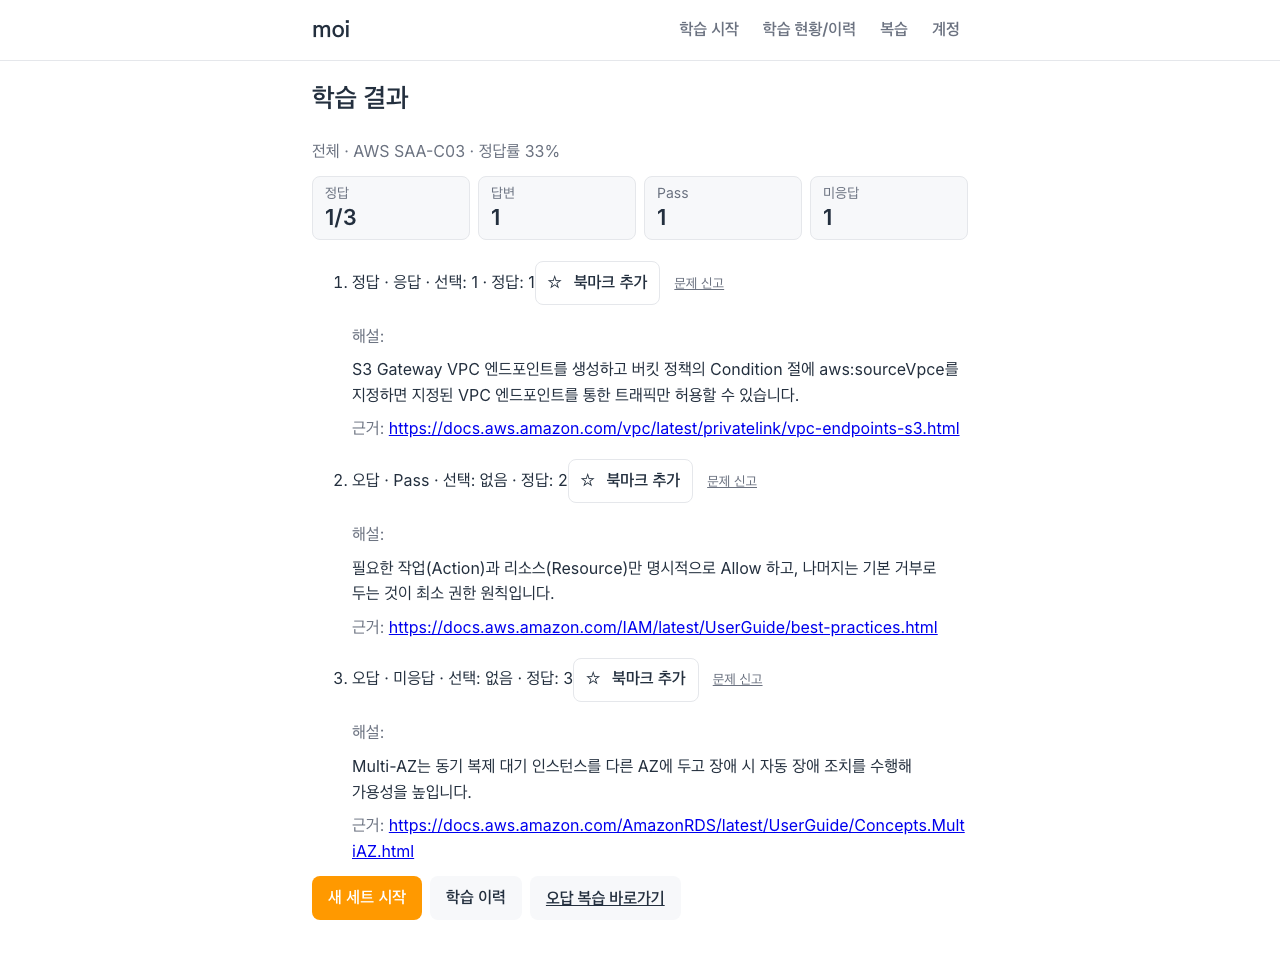
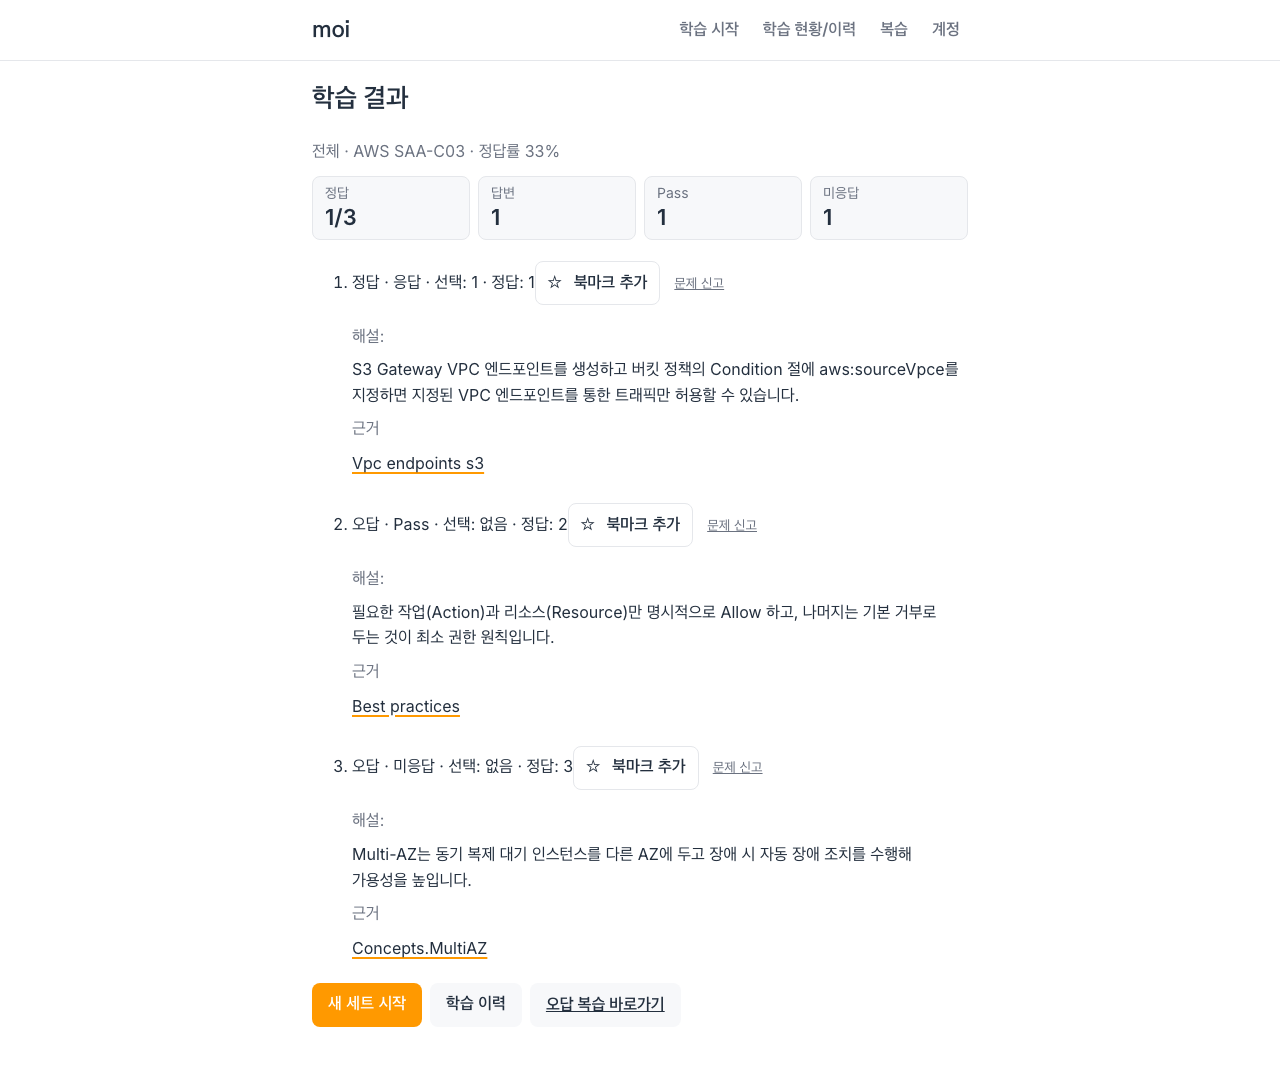
fix: 근거 링크를 전체 URL 대신 문서명으로 표시 (#188) (#193)
* fix: #188 근거 링크를 전체 URL 대신 문서명으로 표시

- sourceLabel(url): path 마지막 세그먼트 디코드·공백화·확장자 제거·첫 글자 대문자, root는 hostname, 파싱 실패는 원문\n- SourceLinks: 문서명 링크(ul/li/a), href·title에만 원문 URL, 44px 터치 타깃·overflow-wrap anywhere\n- ResultView·ReviewFeedback raw URL 렌더를 SourceLinks로 교체(근거/공식 근거 제목 유지)\n- 결과/복습 UI·BDD·sourceLabel 단위 테스트 갱신, capture-screens 복습 피드백 증거 추가

* docs: #188 결과·복습 근거 링크 화면 증거 갱신

- capture-screens study-result·review 320/375/768/1024/1280 overflow 0, raw value 0\n- review 화면은 복습 시작→답안 제출→공식 근거까지 캡처

diff --git a/tests/ui/source-label.test.ts b/tests/ui/source-label.test.ts
@@ -1,0 +1,37 @@
+import { describe, expect, it } from 'vitest';
+import { sourceLabel } from '../../src/ui/source-label';
+
+describe('sourceLabel', () => {
+  it('AWS 문서 URL의 마지막 path를 문서명으로 만든다 (#188)', () => {
+    expect(
+      sourceLabel('https://docs.aws.amazon.com/global-accelerator/latest/dg/what-is-global-accelerator.html'),
+    ).toBe('What is global accelerator');
+  });
+
+  it('루트 URL은 hostname으로 대체한다', () => {
+    expect(sourceLabel('https://docs.aws.amazon.com/')).toBe('docs.aws.amazon.com');
+    expect(sourceLabel('https://docs.aws.amazon.com')).toBe('docs.aws.amazon.com');
+  });
+
+  it('query·hash는 라벨에 넣지 않는다', () => {
+    expect(sourceLabel('https://docs.aws.amazon.com/ec2/index.html?ref=nav#concepts')).toBe('Index');
+  });
+
+  it('인코딩된 path를 디코드하고 -/_를 공백으로 바꾼다', () => {
+    expect(
+      sourceLabel('https://docs.aws.amazon.com/%ED%95%9C%EA%B8%80-%EB%AC%B8%EC%84%9C.html'),
+    ).toBe('한글 문서');
+    expect(sourceLabel('https://docs.aws.amazon.com/vpc/what_is_a_vpc.pdf')).toBe('What is a vpc');
+  });
+
+  it('확장자가 없거나 trailing slash여도 마지막 문서 세그먼트를 쓴다', () => {
+    expect(sourceLabel('https://docs.aws.amazon.com/s3/pricing')).toBe('Pricing');
+    expect(sourceLabel('https://docs.aws.amazon.com/vpc/')).toBe('Vpc');
+    expect(sourceLabel('https://docs.aws.amazon.com/ec2/index.htm')).toBe('Index');
+  });
+
+  it('파싱할 수 없는 URL은 원문을 그대로 돌려준다', () => {
+    expect(sourceLabel('not-a-url')).toBe('not-a-url');
+    expect(sourceLabel('')).toBe('');
+  });
+});

diff --git a/src/ui/study/ResultView.tsx b/src/ui/study/ResultView.tsx
@@ -2,6 +2,7 @@ import { copy } from '../copy';
 import type { ApiClient, StudyCorrections, StudySubmittedItem, StudySubmittedSet } from '../api/client';
 import { Button } from '../components/ui/button';
 import { BookmarkButton } from '../review/BookmarkButton';
+import { SourceLinks } from '../SourceLinks';
 import { Explanation } from './Explanation';
 import { ReportButton } from './ReportButton';
 import { scopeLabel, STUDY_EXAM_LABEL } from './types';
@@ -103,12 +104,10 @@ export function ResultView({ client, set, onRestart, onHistory, corrections }: P
                     <Explanation markdown={content.explanation || '—'} />
                   </div>
                   {content.sourceUrls && content.sourceUrls.length > 0 && (
-                    <p className="moi-note">
-                      {copy.study.sources}:{' '}
-                      {content.sourceUrls.map((u) => (
-                        <a key={u} href={u} target="_blank" rel="noreferrer">{u}</a>
-                      ))}
-                    </p>
+                    <div className="moi-study-sources">
+                      <span className="moi-study-sources-label">{copy.study.sources}</span>
+                      <SourceLinks urls={content.sourceUrls} />
+                    </div>
                   )}
                 </>
               )}

diff --git a/src/ui/review/ReviewFeedback.tsx b/src/ui/review/ReviewFeedback.tsx
@@ -4,6 +4,7 @@ import { Alert } from '../components/ui/alert';
 import { Button } from '../components/ui/button';
 import { Card, CardContent, CardHeader, CardTitle } from '../components/ui/card';
 import { copy } from '../copy';
+import { SourceLinks } from '../SourceLinks';
 import { Explanation } from '../study/Explanation';
 import { BookmarkButton } from './BookmarkButton';
 
@@ -111,20 +112,7 @@ export function ReviewFeedback({
           {graded.sourceUrls && graded.sourceUrls.length > 0 && (
             <div className="flex flex-col gap-1 border-t border-border pt-3">
               <h4 className="text-xs font-semibold text-muted-foreground">{copy.review.sources}</h4>
-              <ul className="flex flex-col gap-1">
-                {graded.sourceUrls.map((url) => (
-                  <li key={url}>
-                    <a
-                      href={url}
-                      target="_blank"
-                      rel="noreferrer"
-                      className="break-all text-xs text-primary underline hover:text-primary/80"
-                    >
-                      {url}
-                    </a>
-                  </li>
-                ))}
-              </ul>
+              <SourceLinks urls={graded.sourceUrls} />
             </div>
           )}
         </CardContent>

diff --git a/src/ui/source-links.css b/src/ui/source-links.css
@@ -1,0 +1,40 @@
+/* 근거 링크 — 문서명만 보이고 전체 URL은 href/title에만 둔다 (#188). 토큰 CSS 변수만 사용. */
+.moi-source-links {
+  display: flex;
+  flex-direction: column;
+  margin: 0;
+  padding: 0;
+  list-style: none;
+  min-width: 0;
+}
+
+.moi-source-links > li {
+  min-width: 0;
+}
+
+/* 링크 행 자체를 44px 터치 타깃으로 만들고, 긴 문서명은 어절 안에서도 끊는다. */
+.moi-source-links a {
+  display: inline-flex;
+  align-items: center;
+  min-height: var(--moi-touch-min);
+  padding: var(--moi-space-1) 0;
+  color: var(--moi-color-ink);
+  font-size: var(--moi-size-small);
+  line-height: var(--moi-lh-normal);
+  text-decoration: underline;
+  text-decoration-color: var(--moi-color-orange);
+  text-decoration-thickness: 2px;
+  text-underline-offset: 3px;
+  overflow-wrap: anywhere;
+  word-break: break-word;
+  border-radius: var(--moi-radius-sm);
+}
+
+.moi-source-links a:hover {
+  background: var(--moi-color-surface);
+}
+
+.moi-source-links a:focus-visible {
+  outline: 2px solid var(--moi-color-orange);
+  outline-offset: 2px;
+}

diff --git a/src/ui/source-label.ts b/src/ui/source-label.ts
@@ -1,0 +1,30 @@
+// 근거 URL → 문서명 라벨 (#188). 전체 URL은 href/title에만 두고 화면에는 사람이 읽는 이름을 노출한다.
+// 콘텐츠 JSON·DB는 바꾸지 않고 URL만으로 라벨을 파생한다.
+
+/** path 마지막 세그먼트를 디코드·공백화·확장자 제거 후 첫 글자만 대문자로 만든다. */
+export function sourceLabel(rawUrl: string): string {
+  let url: URL;
+  try {
+    url = new URL(rawUrl);
+  } catch {
+    return rawUrl;
+  }
+
+  const segment = url.pathname.split('/').filter(Boolean).at(-1);
+  if (!segment) return url.hostname || rawUrl;
+
+  let decoded: string;
+  try {
+    decoded = decodeURIComponent(segment);
+  } catch {
+    decoded = segment;
+  }
+
+  const words = decoded
+    .replace(/\.(?:html?|pdf)$/i, '')
+    .replace(/[-_]+/g, ' ')
+    .trim();
+  if (!words) return url.hostname || rawUrl;
+
+  return words.charAt(0).toUpperCase() + words.slice(1);
+}

diff --git a/e2e/steps/review.steps.ts b/e2e/steps/review.steps.ts
@@ -630,6 +630,11 @@ Then('즉시 채점 결과와 해설과 공식 근거가 보인다', async ({ pa
   await expect(page.getByText(copy.review.correctBadge, { exact: true })).toBeVisible();
   await expect(page.getByRole('heading', { name: copy.study.explanation })).toBeVisible();
   await expect(page.getByRole('heading', { name: copy.review.sources })).toBeVisible();
+  const source = page.locator('.moi-source-links a').first();
+  await expect(source).toBeVisible();
+  expect(await source.innerText()).not.toMatch(/^https?:\/\//);
+  await expect(source).toHaveAttribute('href', /^https:\/\/docs\.aws\.amazon\.com\//);
+  await expect(source).toHaveAttribute('title', /^https:\/\/docs\.aws\.amazon\.com\//);
 });
 
 Then('북마크 상태가 해제로 바뀐다', async ({ page }) => {

diff --git a/tests/ui/study.test.tsx b/tests/ui/study.test.tsx
@@ -270,7 +270,10 @@ describe('제출·결과·포기', () => {
     const item = screen.getByTestId('peritem-q-0');
     expect(within(item).getAllByText(/정답/).length).toBeGreaterThanOrEqual(1);
     expect(within(item).getByText(/문제 0 해설: 정답은 q-0-a이다/)).toBeInTheDocument();
-    expect(within(item).getByRole('link')).toHaveAttribute('href', 'https://docs.aws.amazon.com/q-0');
+    const link = within(item).getByRole('link', { name: 'Q 0' });
+    expect(link).toHaveAttribute('href', 'https://docs.aws.amazon.com/q-0');
+    expect(link).toHaveAttribute('title', 'https://docs.aws.amazon.com/q-0');
+    expect(link).not.toHaveTextContent(/https?:\/\//);
     expect(screen.queryByText(/해설·근거·북마크는 후속/)).not.toBeInTheDocument();
   });
 

diff --git a/tests/ui/review-phase2.test.tsx b/tests/ui/review-phase2.test.tsx
@@ -261,7 +261,10 @@ describe('복습 Phase 2 채점·해설·종료·북마크 UI', () => {
     });
 
     expect(await screen.findByText('Intelligent-Tiering이 가장 적합합니다.')).toBeInTheDocument();
-    expect(screen.getByRole('link', { name: /https:\/\/docs.aws.amazon.com\/s3\/pricing/ })).toBeInTheDocument();
+    const sourceLink = screen.getByRole('link', { name: 'Pricing' });
+    expect(sourceLink).toHaveAttribute('href', 'https://docs.aws.amazon.com/s3/pricing');
+    expect(sourceLink).toHaveAttribute('title', 'https://docs.aws.amazon.com/s3/pricing');
+    expect(sourceLink).not.toHaveTextContent(/https?:\/\//);
 
     // 다음 문항 정답은 아직 미노출
     expect(screen.queryByText('CIDR 중복 방지')).not.toBeInTheDocument();

diff --git a/e2e/steps/study.steps.ts b/e2e/steps/study.steps.ts
@@ -377,7 +377,10 @@ Then('학습 결과가 보인다', async ({ page }) => {
 
 Then('해설과 근거가 보인다', async ({ page }) => {
   await expect(page.getByText(/문제 0 해설: 정답은/)).toBeVisible();
-  await expect(page.getByRole('link', { name: /docs.aws.amazon.com/ }).first()).toBeVisible();
+  const source = page.getByRole('link', { name: 'Q 0' });
+  await expect(source).toBeVisible();
+  await expect(source).toHaveAttribute('href', 'https://docs.aws.amazon.com/q-0');
+  await expect(source).toHaveAttribute('title', 'https://docs.aws.amazon.com/q-0');
 });
 
 Then('포기 확인이 보인다', async ({ page }) => {

diff --git a/src/ui/SourceLinks.tsx b/src/ui/SourceLinks.tsx
@@ -1,0 +1,21 @@
+import { sourceLabel } from './source-label';
+import './source-links.css';
+
+interface Props {
+  readonly urls: readonly string[];
+}
+
+// 근거 링크 목록 — 화면에는 문서명, 원문 URL은 href/title에만 둔다 (#188).
+export function SourceLinks({ urls }: Props) {
+  return (
+    <ul className="moi-source-links">
+      {urls.map((url) => (
+        <li key={url}>
+          <a href={url} title={url} target="_blank" rel="noreferrer">
+            {sourceLabel(url)}
+          </a>
+        </li>
+      ))}
+    </ul>
+  );
+}

diff --git a/src/ui/study/study-result.css b/src/ui/study/study-result.css
@@ -36,6 +36,8 @@
   padding: var(--moi-space-2) var(--moi-space-3);
   cursor: pointer;
 }
+.moi-study-sources { margin-top: var(--moi-space-2); font-size: var(--moi-size-small); }
+.moi-study-sources-label { color: var(--moi-color-muted); }
 .moi-study-detail {
   border: 1px solid var(--moi-color-border);
   border-radius: var(--moi-radius-md);
